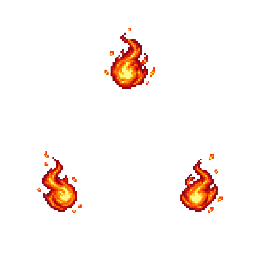
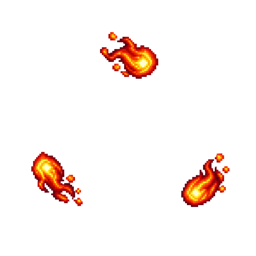
art: align number aura fireball directions

Changed region(s): [[0.375, 0.0938, 0.625, 0.3438], [0.125, 0.5938, 0.3438, 0.8438], [0.6875, 0.5938, 0.9062, 0.8438]]

diff --git a/Docs/presentation-art-preview.html b/Docs/presentation-art-preview.html
@@ -139,7 +139,7 @@
     <section>
       <div class="section-title">
         <h2>技能 VFX の対比</h2>
-        <span class="section-note">左が実装参照PNG、右が未接続の候補です。数字一〜三は中央を空けた火の玉で、周回の動きは承認後に接続します。</span>
+        <span class="section-note">左が実装参照PNG、右が未接続の候補です。数字一〜三は中央を空けた火の玉で、時計回りの軌道に合わせて尾を反対側へ流します。周回の動きは承認後に接続します。</span>
       </div>
       <div id="vfx-comparisons" class="comparison-list"></div>
     </section>
@@ -148,7 +148,7 @@
   <script>
     const root = 'review-assets/';
     // Keep local file previews from retaining an older candidate after an art revision.
-    const previewRevision = '20261004-v9';
+    const previewRevision = '20261004-v10';
     const pieces = [
       ['一', 'Art/Generated/CharacterIcons/icon_01_1.png'], ['二', 'Art/Generated/CharacterIcons/icon_02_2.png'], ['三', 'Art/Generated/CharacterIcons/icon_03_3.png'],
       ['四', 'Art/Generated/CharacterIcons/icon_04_4.png'], ['五', 'Art/Generated/CharacterIcons/icon_05_5.png'], ['六', 'Art/Generated/CharacterIcons/icon_06_6.png'],

diff --git a/Docs/Audio/VFX_AnimatedAssetBrief.md b/Docs/Audio/VFX_AnimatedAssetBrief.md
@@ -128,7 +128,7 @@ Use alpha fade and changing scale rather than only swapping colors. The first an
 - VFX はコンタクトシートや共通スプライトにまとめず、技能フォルダごとに一枚ずつ下書きを用意する。プレビューでは駒モチーフと並べて、透過、中心原点、余白、最小表示時の輪郭を個別に確認する。
 - 既存 VFX に対応するドット絵版は、新規の解釈で描き直さない。元の PNG を編集入力にし、対象物、角度、シルエット、キャンバス内の位置、透明余白、右向きなどの向きを固定したうえで、描画だけをドット絵へ変換する。とくに水は現行どおり水玉、盾は木札と墨線の和風意匠を維持する。馬は右端の目立つ欠けだけを一続きの砂埃へ補修してよく、鳥は現行の三枚の淡い羽を維持し、黒い縁取りを足さない。
 - 今回の全技能候補は、ランタイムが使う代表 PNG を 4 分の 1 程度へ縮小してから最近傍で元サイズへ戻す。透明度、原点、余白、実装時の向きを保持し、候補同士で別の画像を流用しない。
-- 数字の代表エフェクトは、現在の円形オーラを中央の駒を空けた小さな火の玉の周回表現へ置き換える候補を作る。`一` は火の玉一つ、`二` は二つ、`三` は三つで、外周に等間隔で置く。火の玉自体を時計回りに回転させる動きは承認後に既存の共通 VFX モーションへ加える。
+- 数字の代表エフェクトは、現在の円形オーラを中央の駒を空けた小さな火の玉の周回表現へ置き換える候補を作る。`一` は火の玉一つ、`二` は二つ、`三` は三つで、外周に等間隔で置く。時計回りの軌道では、火球の頭を進行方向へ向け、尾はその反対側へ接線方向に流す。火の玉自体を時計回りに回転させる動きは承認後に既存の共通 VFX モーションへ加える。
 
 - Aim for a rugged shogi-board fantasy style: carved wood, forged iron, worn leather, paper, soil, smoke, sparks, embers, and water droplets.
 - Use directional light, contact shadows, debris, dust, and practical-looking impact flashes instead of sci-fi beams.
